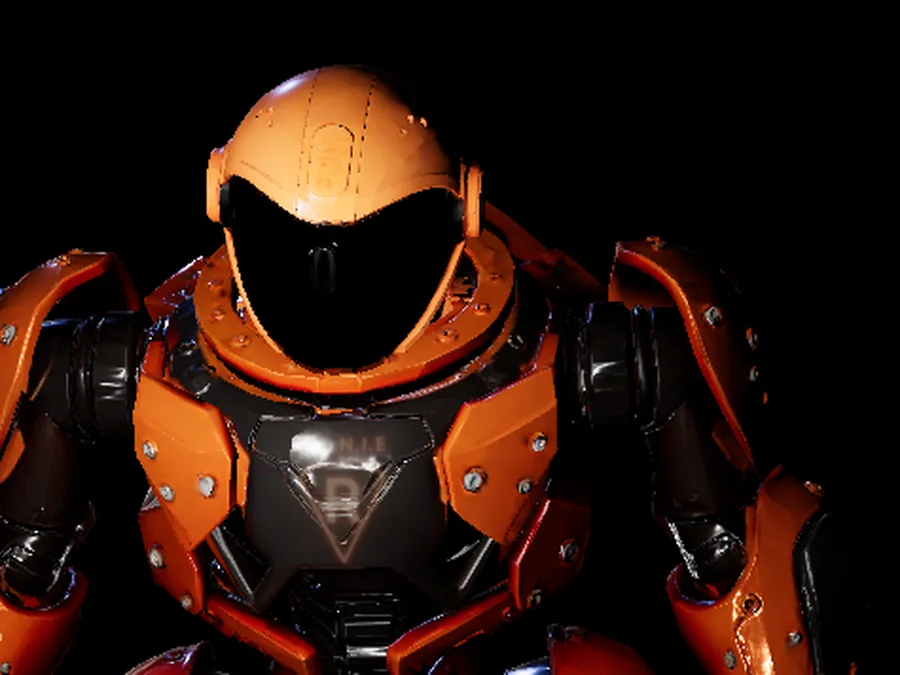
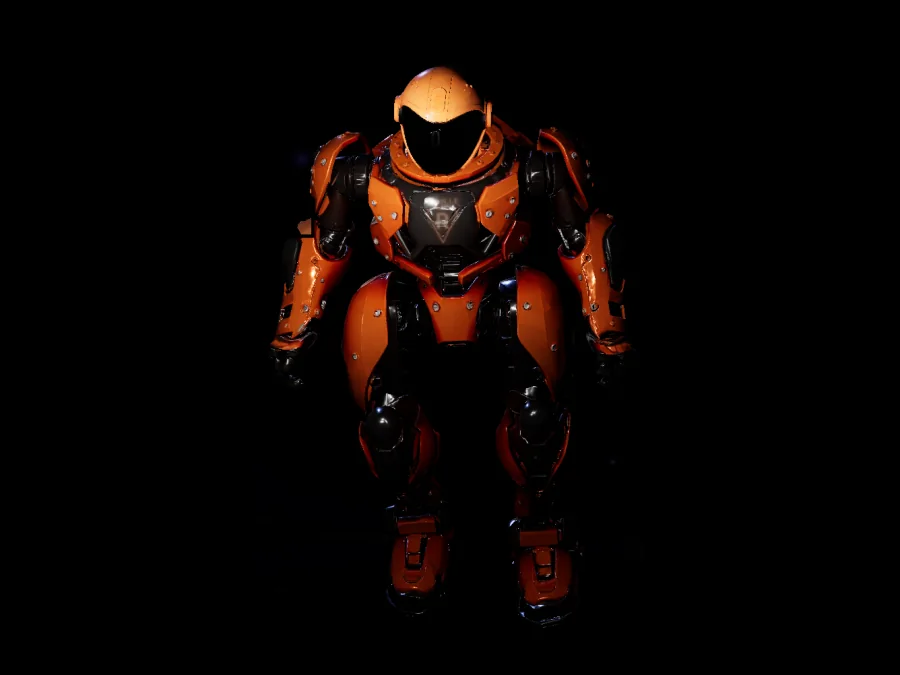
Dashboard tunnel: Ronie's picture centred, head to feet, with even space around him

diff --git a/js/data.js b/js/data.js
@@ -109,7 +109,7 @@ window.PORTFOLIO = {
      sit in it; 16:9 and 4:3); without them the tunnel uses image / imageMobile. */
   projects: [
     {
-      title: 'Ronie — 3D AI Agent', category: 'AI Agents', year: 2026, image: 'img/projects/ronie.webp?v=5', imageMobile: 'img/projects/ronie-mobile.webp?v=2', tunnelImage: 'img/tunnel/ronie.webp', tunnelImageMobile: 'img/tunnel/ronie-mobile.webp', colors: ['#ff7a1a', '#7c5cff'],
+      title: 'Ronie — 3D AI Agent', category: 'AI Agents', year: 2026, image: 'img/projects/ronie.webp?v=5', imageMobile: 'img/projects/ronie-mobile.webp?v=2', tunnelImage: 'img/tunnel/ronie.webp?v=2', tunnelImageMobile: 'img/tunnel/ronie-mobile.webp?v=2', colors: ['#ff7a1a', '#7c5cff'],
       tags: ['three.js', 'WebGPU', 'Kokoro TTS', 'Cloudflare Workers', 'Gemini', 'Blender'],
       description: "The 3D AI agent who lives on this website: he answers visitors' questions from real facts only, speaks in a neural voice that runs on their own GPU, reacts with 23 expressions and 23 moves I authored in Blender with Python, and plays a mind-reading game — free to run. Works with any 3D character; the code is an open template.",
       link: 'https://github.com/raunakpatil/ronie-3d-ai-website-agent', linkText: 'See the case study ↗',

diff --git a/index.html b/index.html
@@ -26,7 +26,7 @@
       d.classList.add(ronie || calm ? 'no-intro' : 'intro-on');
     })();
   </script>
-  <link rel="stylesheet" href="css/style.css?v=20261014730000">
+  <link rel="stylesheet" href="css/style.css?v=20261014740000">
   <script type="importmap">
     { "imports": {
       "three": "https://cdn.jsdelivr.net/npm/three@0.160.0/build/three.module.js",
@@ -339,7 +339,7 @@
     </div>
   </dialog>
 
-  <script src="js/data.js?v=20261014730000"></script>
-  <script src="js/main.js?v=20261014730000" defer></script>
+  <script src="js/data.js?v=20261014740000"></script>
+  <script src="js/main.js?v=20261014740000" defer></script>
 </body>
 </html>
